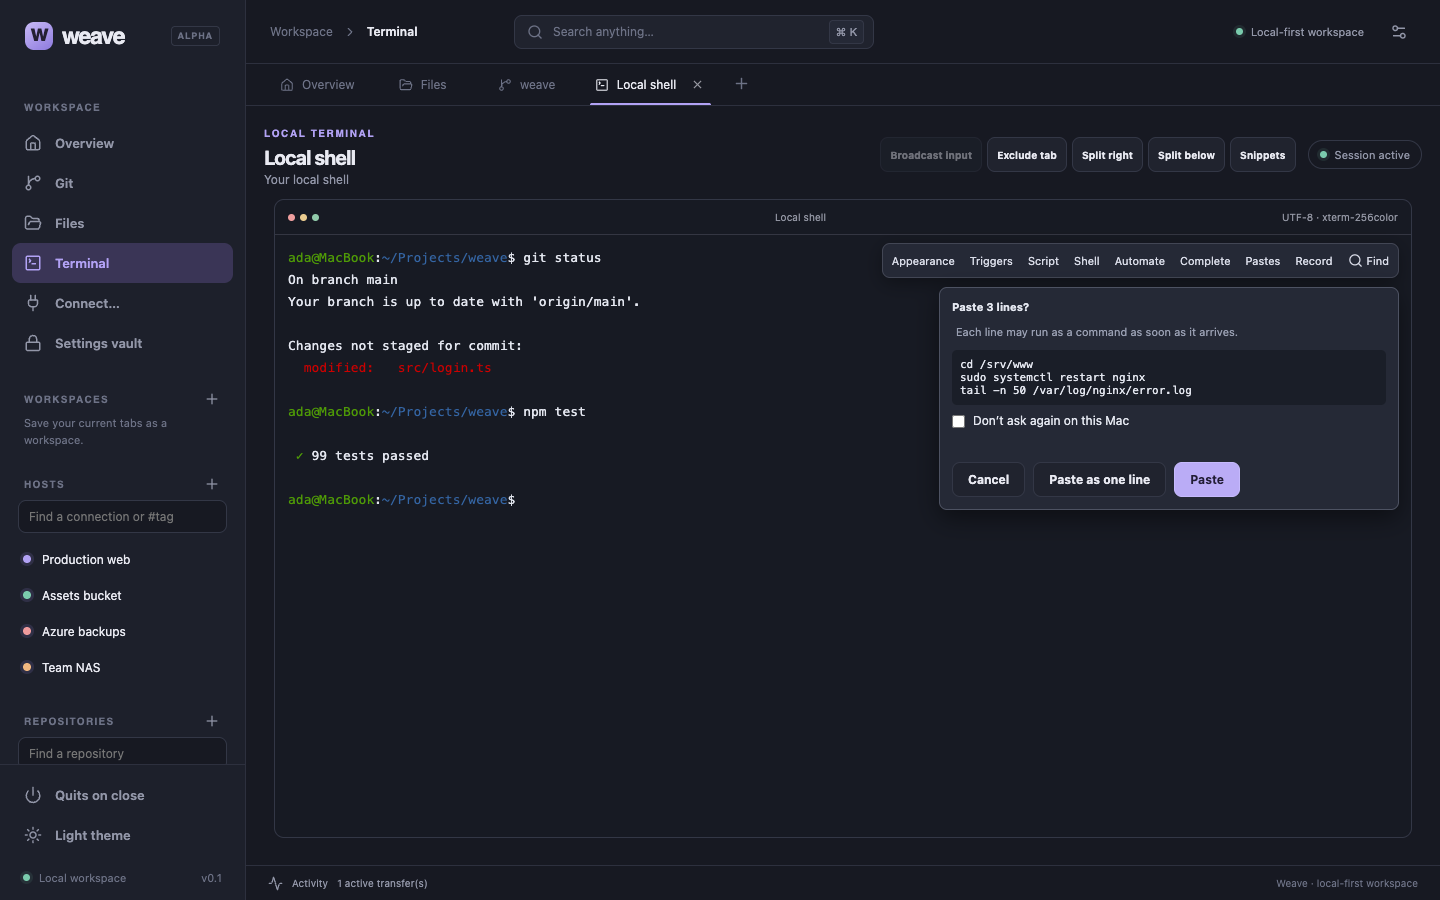
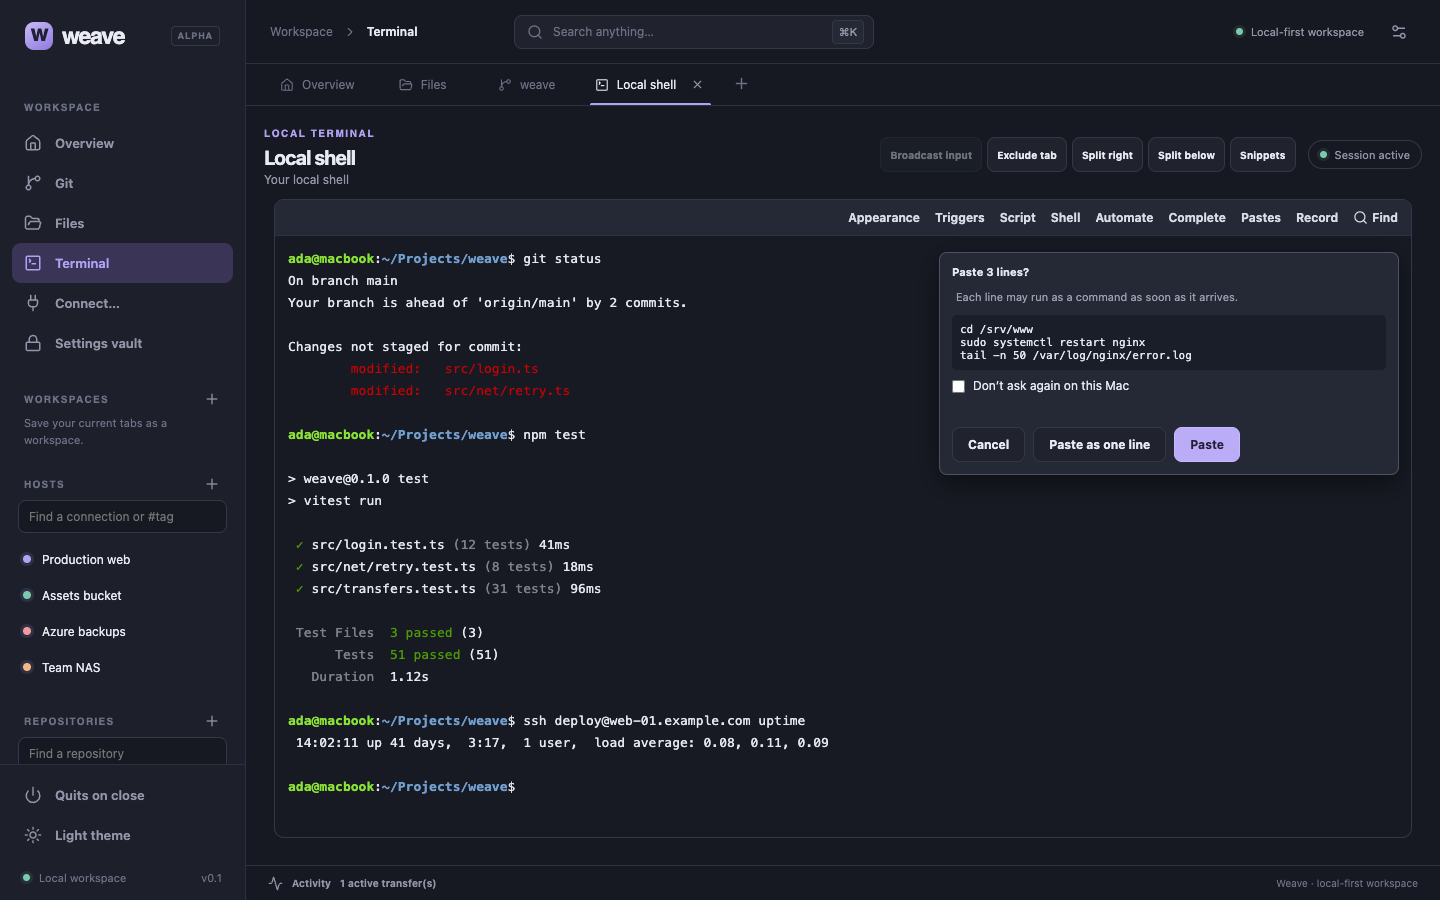
Retake terminal and files screenshots

diff --git a/site/index.html b/site/index.html
@@ -316,8 +316,8 @@
             <figcaption>Files: a local folder next to an SFTP server.</figcaption>
           </figure>
           <figure>
-            <img src="shots/16-git-diff.png" width="1440" height="900" loading="lazy" alt="A diff with syntax highlighting and stage buttons for each section" />
-            <figcaption>Staging a diff section by section.</figcaption>
+            <img src="shots/05-terminal.png" width="1440" height="900" loading="lazy" alt="A local terminal tab running git status and the test suite" />
+            <figcaption>A local terminal tab.</figcaption>
           </figure>
           <figure>
             <img src="shots/18-git-compare.png" width="1440" height="900" loading="lazy" alt="Comparing two branches before a pull request" />
